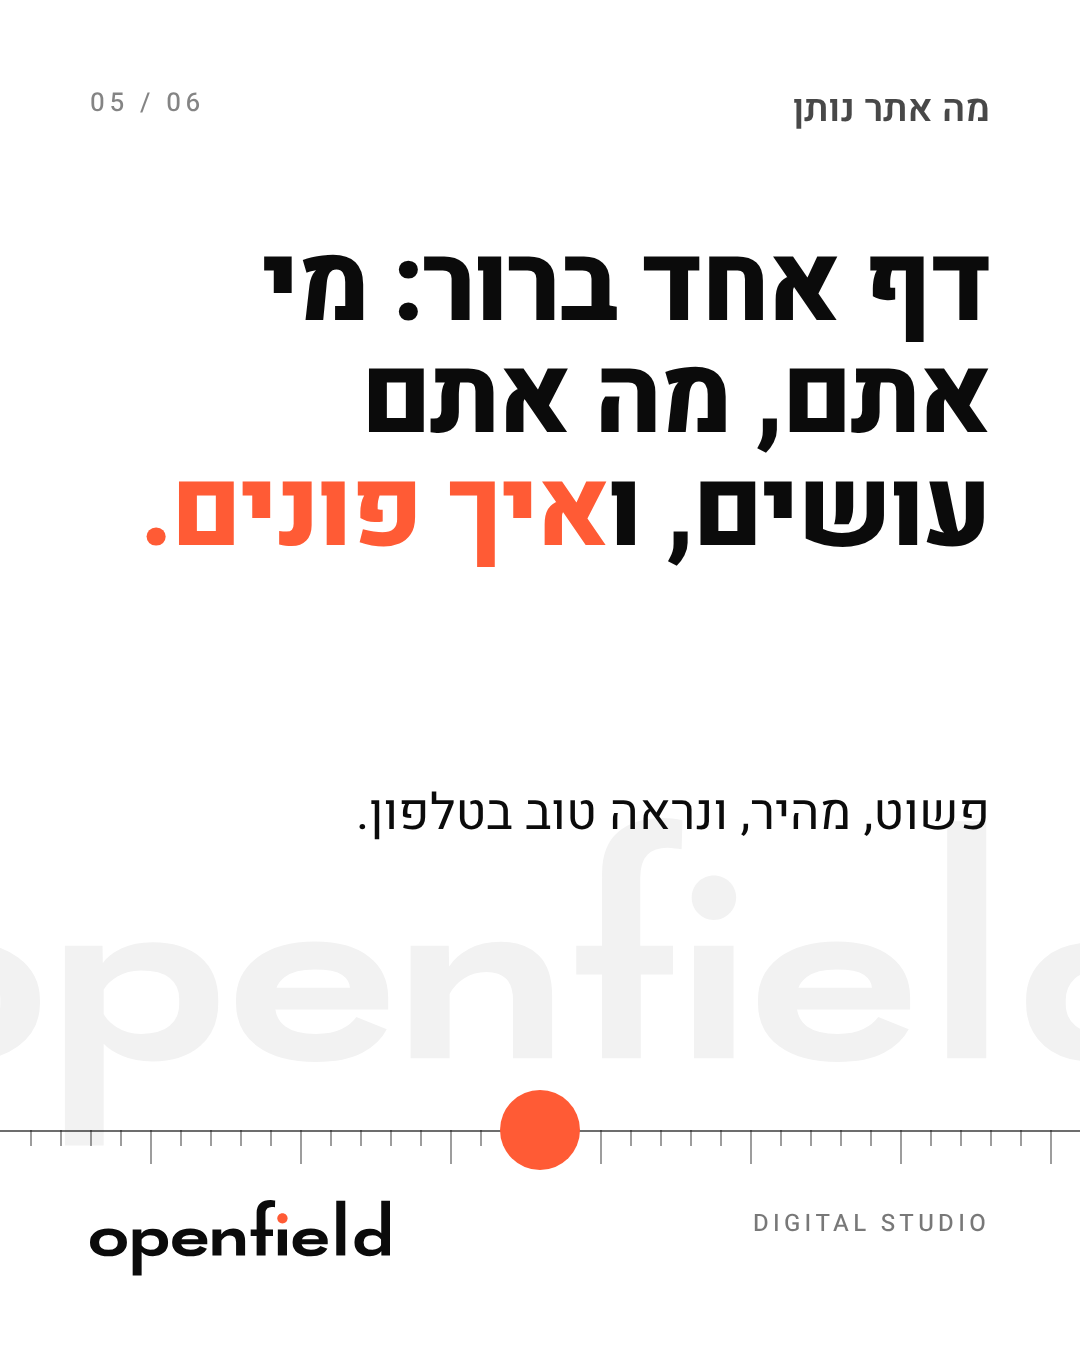
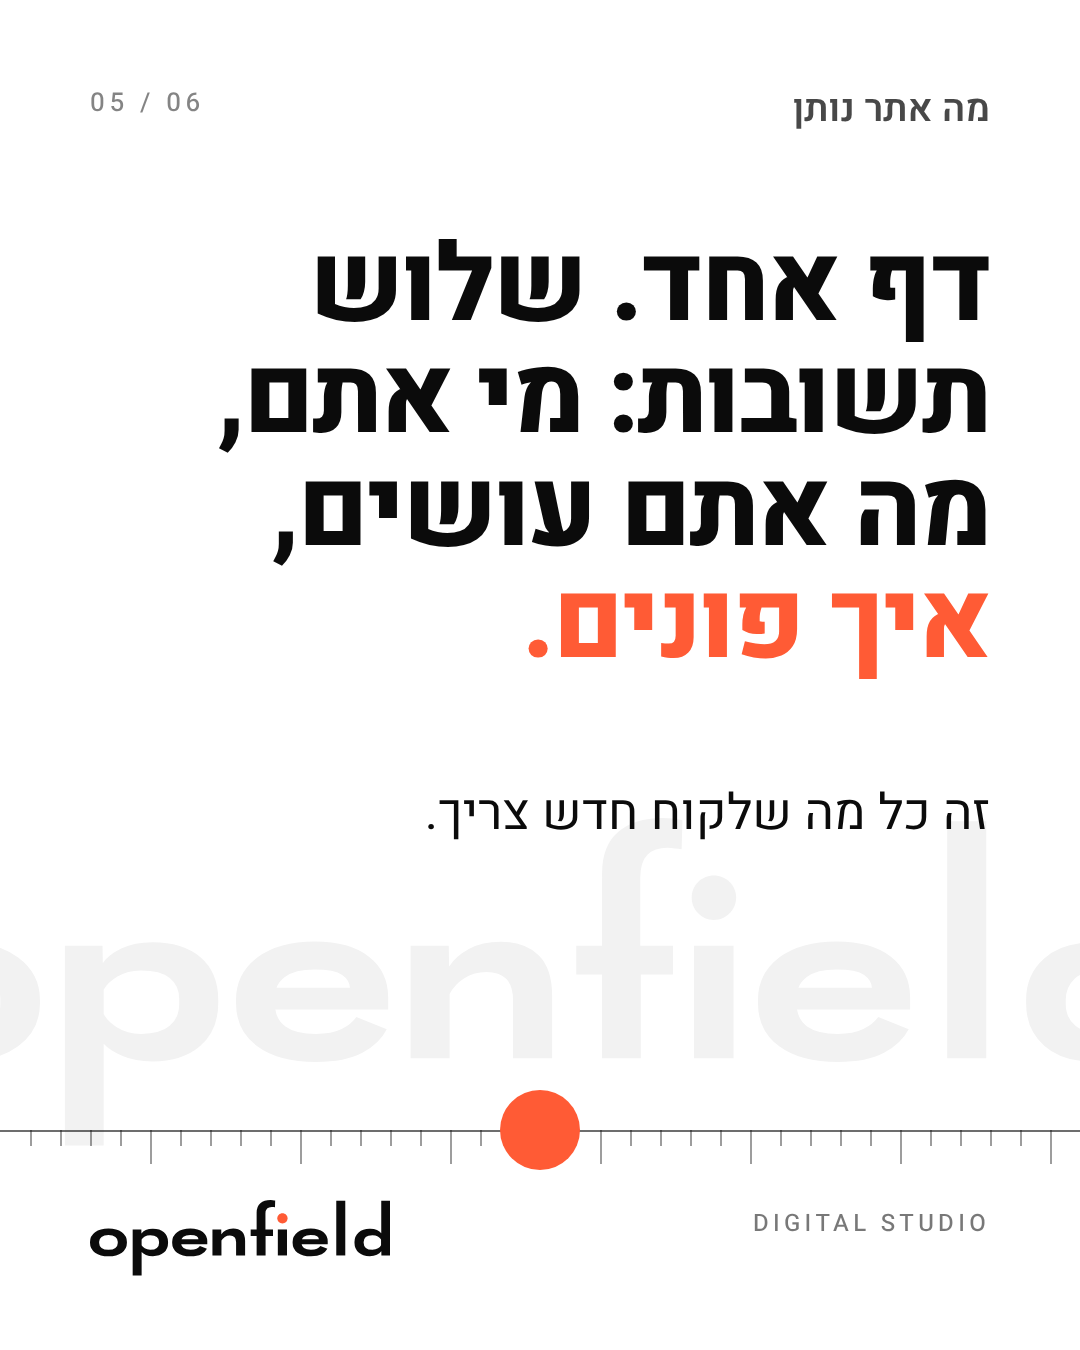
Rewrite Facebook post copy and captions
Claude-Session: https://claude.ai/code/session_01DxzeFhG4jZ7yDrcozRxW5L

Changed region(s): [[0.1222, 0.1556, 0.9167, 0.4978], [0.3361, 0.5911, 0.9167, 0.6222]]

diff --git a/public/brand/facebook/captions.md b/public/brand/facebook/captions.md
@@ -1,21 +1,21 @@
 # כיתובים לפוסטים (להדביק מתחת לתמונה)
 
-**post-01 (ברוכים הבאים)**
-אנחנו openfield, סטודיו דיגיטלי לאתרים ולחוויות דיגיטליות לעסקים. כאן נשתף עבודות, טיפים ומה שחשוב לדעת על נוכחות אונליין. שלחו הודעה, נשמח להכיר.
+**post-01 (היכרות)**
+קוראים לנו openfield. אנחנו בונים אתרים ודפי נחיתה לעסקים קטנים, כאלה שעד היום הסתדרו עם וואטסאפ ופייסבוק. בדף הזה נשתף עבודות, ונסביר בעברית פשוטה מה צריך כדי שלקוח חדש ימצא אתכם. איזה עסק יש לכם? כתבו בתגובות, נשמח להכיר.
 
-**post-02 (לעסקים בלי אתר)**
-העסק שלכם פתוח. גם האינטרנט שלו צריך להיות. לקוחות מחפשים בגוגל לפני שהם מתקשרים, ואתר ברור עושה את הרושם הראשון בשבילכם.
+**post-02 (לקוח מחפש בגוגל)**
+מישהו קיבל המלצה עליכם מחבר. לפני שהוא מתקשר, הוא מחפש אתכם בגוגל. אם הוא מוצא רק מספר טלפון ותמונה ישנה, חלק מהאנשים ימשיכו לחפש במקום אחר. אתר קטן וברור עושה את העבודה הזאת בשבילכם גם כשאתם באמצע יום עבודה. יש לכם היום אתר?
 
 **post-03 (מה אנחנו בונים)**
-אתרים, דפי נחיתה וחנויות אונליין. בגודל שמתאים לעסק שלכם.
+שלושה דברים. אתר תדמית קטן שמציג מי אתם. דף נחיתה לשירות אחד או למבצע. חנות אונליין למי שרוצה למכור גם כשהעסק סגור. לא בטוחים מה מתאים לכם? כתבו לנו מה אתם מוכרים, ונגיד לכם מה היינו בונים.
 
 **post-04 (איך זה עובד)**
-שיחה קצרה, עיצוב, ועולים לאוויר. שלושה צעדים בלי סיבוכים.
+מתחילים בשיחה קצרה על העסק. אנחנו מעצבים, אתם מאשרים או מבקשים שינויים, והאתר עולה. לא צריך להבין בטכנולוגיה, רק לדעת מה אתם רוצים שלקוחות יידעו עליכם.
 
-**post-05 (מה אתר נותן)**
-דף אחד ברור: מי אתם, מה אתם עושים ואיך פונים אליכם. פשוט, מהיר, ונראה טוב בטלפון.
+**post-05 (דף אחד)**
+אתר לעסק קטן לא צריך עשרות עמודים. הוא צריך לענות על שלוש שאלות: מי אתם, מה אתם עושים ואיך יוצרים קשר. מה הדבר הראשון שלקוח חדש צריך לדעת עליכם?
 
-**post-06 (מדברים?)**
-רוצים אתר לעסק? שלחו לנו הודעה בדף ונחזור אליכם בהקדם.
+**post-06 (פנייה)**
+יש לכם עסק ואין לו אתר? שלחו לנו הודעה בדף ונחזור אליכם עם הצעה ברורה.
 
-סדר פרסום מומלץ: פוסט אחד ביום, מ-01 עד 06, לפני שמתחילים לפנות לעסקים.
+סדר פרסום מומלץ: פוסט אחד ביום, מ-01 עד 06, לפני שמתחילים לפנות לעסקים. אחרי כל פוסט כדאי לענות לתגובות.
